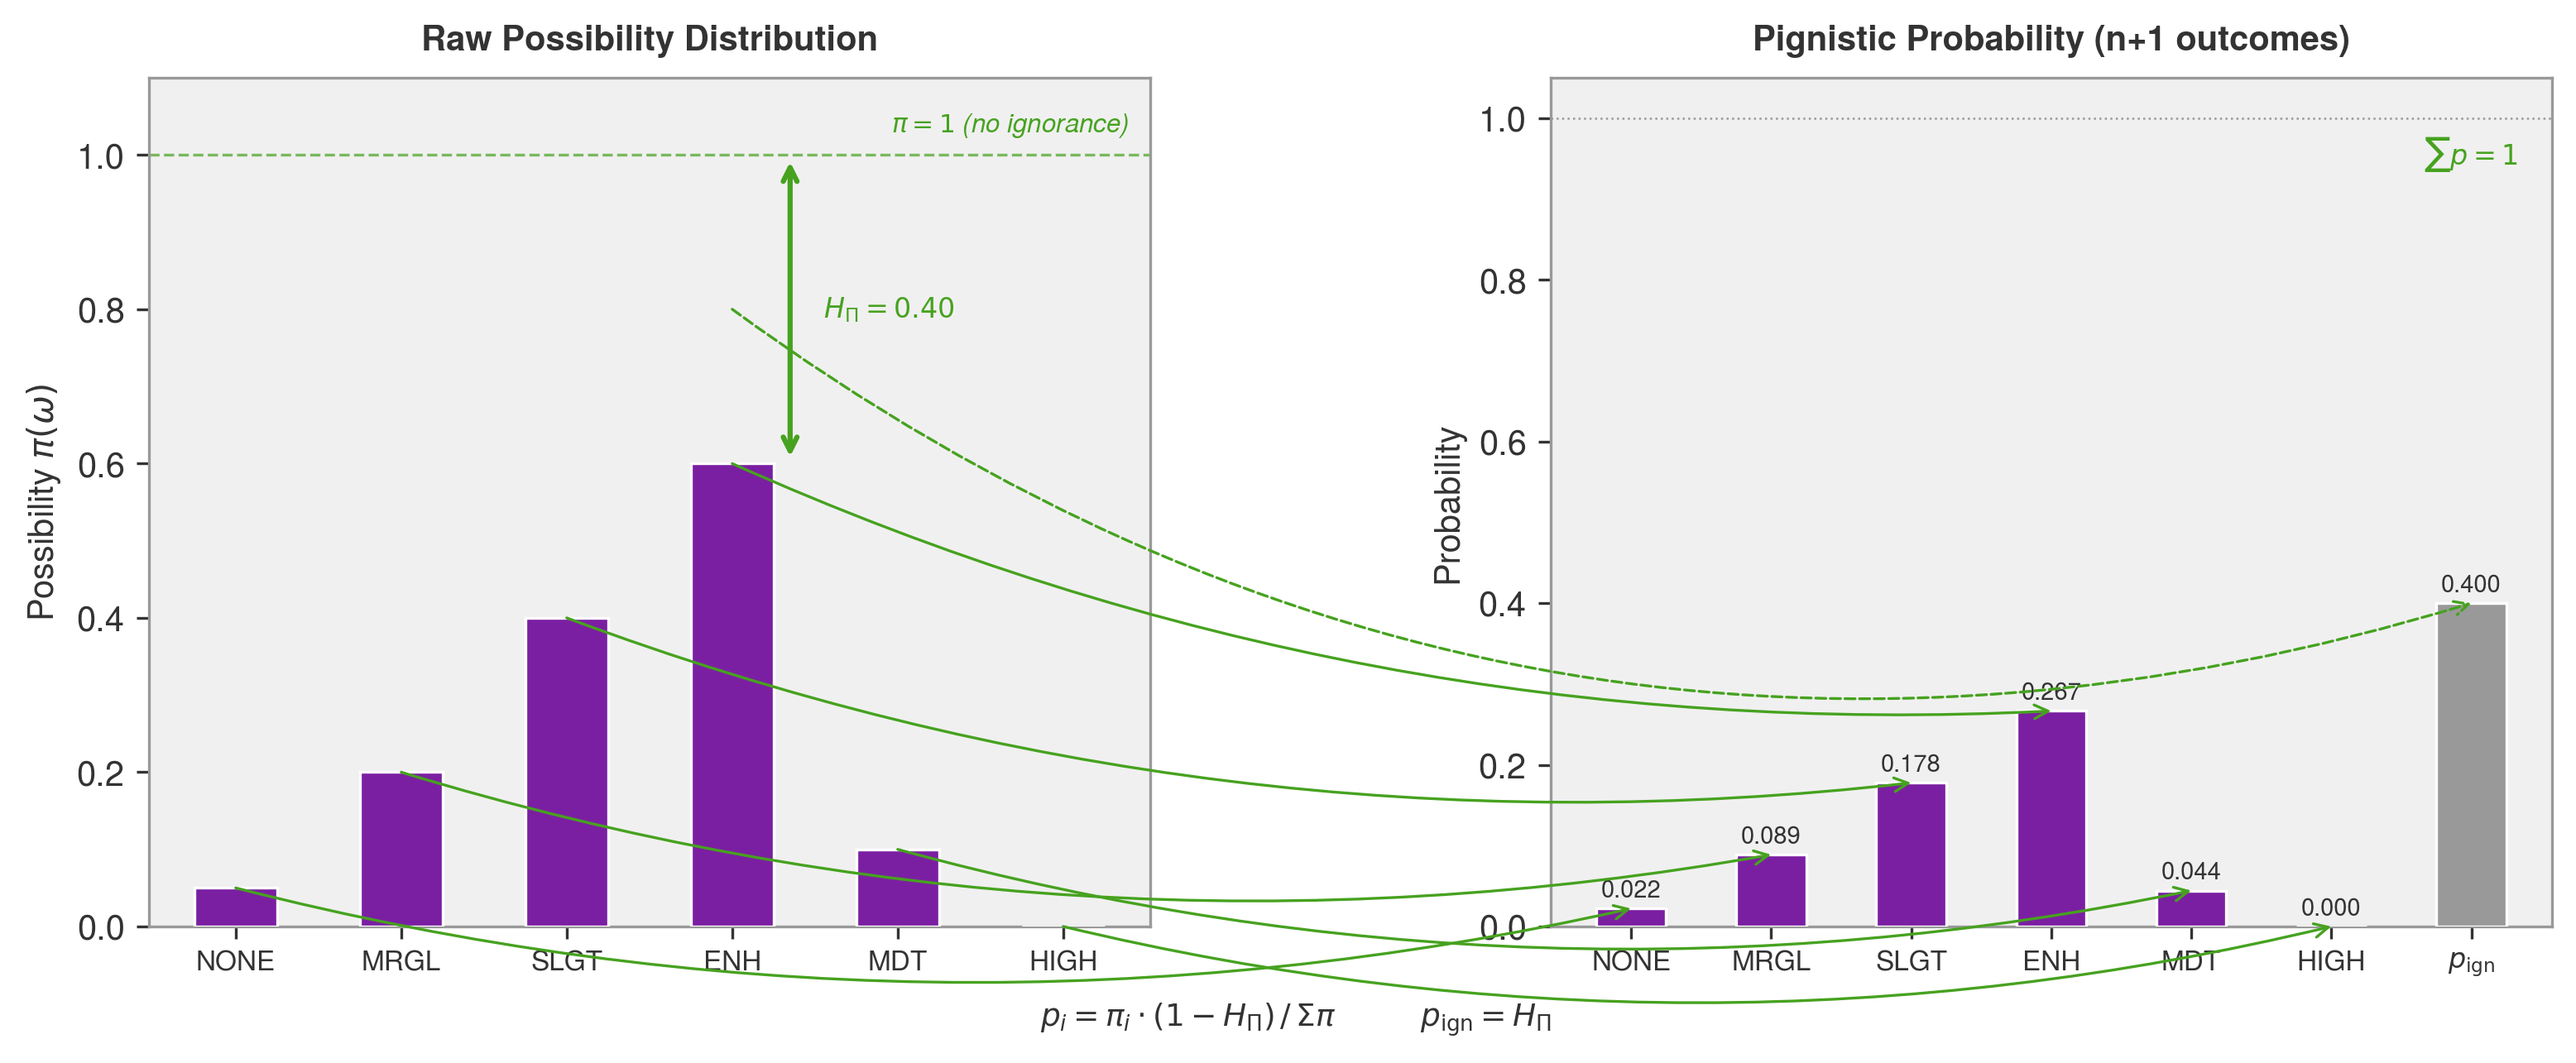
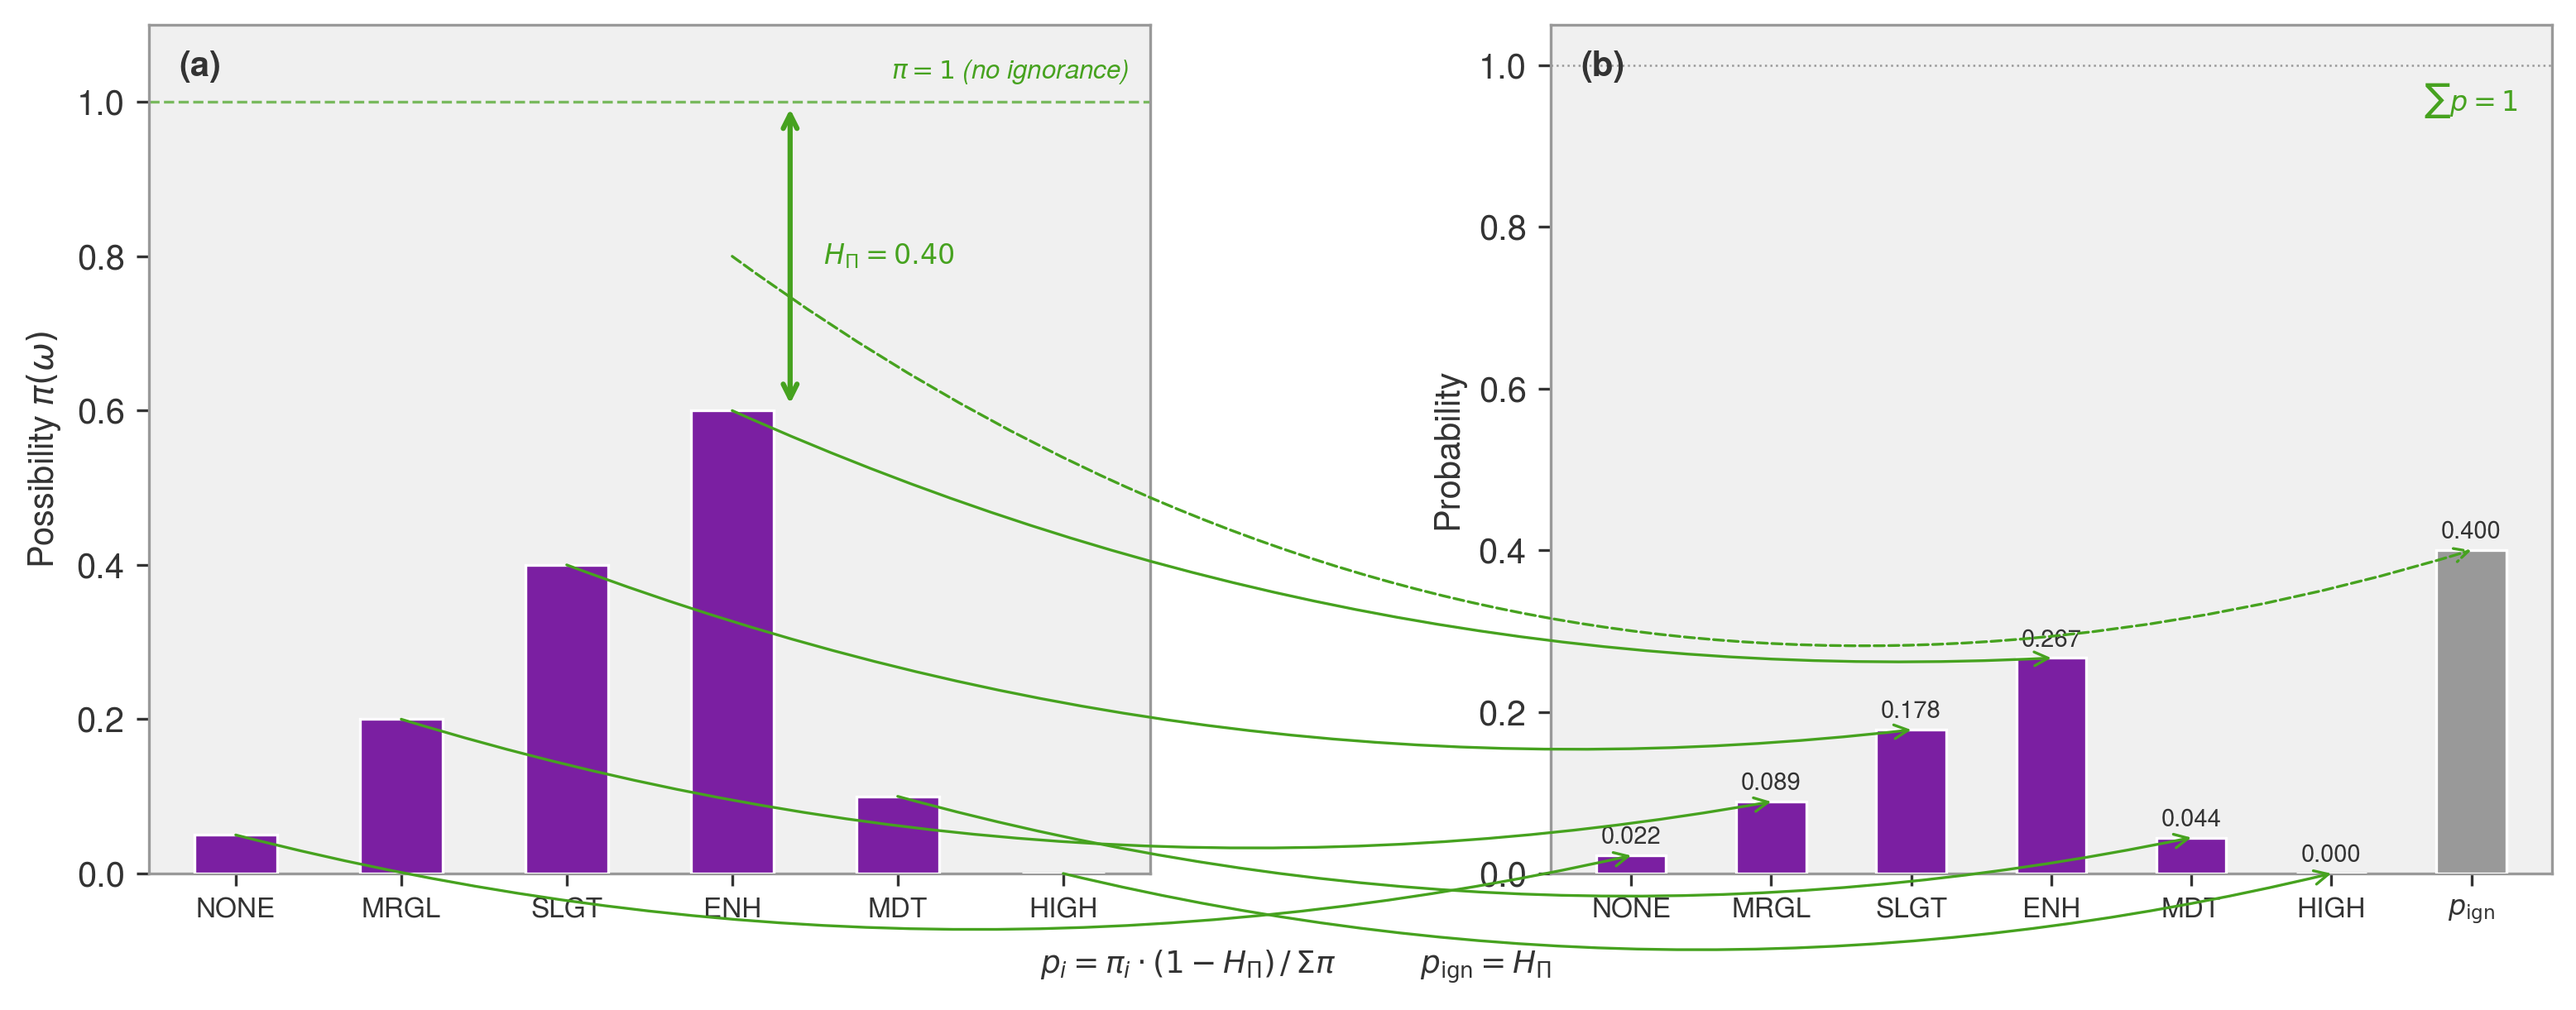
Fig 2 (a)/(b) labels, Fig 7 legend lowered, Fig 8 colorbar added
Fig 2: Remove panel titles, add (a)/(b) corner labels.
Fig 7: bbox_to_anchor −0.04 → −0.10 so legend clears HSS row.
Fig 8: Add colorbar to confusion matrix panel (log-scale counts).

diff --git a/scripts/fig_pignistic_bridge.py b/scripts/fig_pignistic_bridge.py
@@ -64,8 +64,8 @@ def main():
     ax_l.set_xticks(x_left)
     ax_l.set_xticklabels(SPC_CATEGORIES, fontsize=8)
     ax_l.set_ylabel(r"Possibility $\pi(\omega)$")
-    ax_l.set_title("Raw Possibility Distribution", fontsize=10,
-                    fontweight="bold", pad=8)
+    ax_l.text(0.03, 0.97, "(a)", transform=ax_l.transAxes,
+              fontsize=10, fontweight="bold", va="top")
     ax_l.set_ylim(0, 1.10)
     ax_l.axhline(1.0, linestyle="--", linewidth=0.8, color=GREEN, zorder=1,
                  alpha=0.7)
@@ -99,8 +99,8 @@ def main():
     ax_r.set_xticks(x_right)
     ax_r.set_xticklabels(right_labels, fontsize=8)
     ax_r.set_ylabel("Probability")
-    ax_r.set_title("Pignistic Probability (n+1 outcomes)", fontsize=10,
-                    fontweight="bold", pad=8)
+    ax_r.text(0.03, 0.97, "(b)", transform=ax_r.transAxes,
+              fontsize=10, fontweight="bold", va="top")
     ax_r.set_ylim(0, 1.05)
     ax_r.axhline(1.0, linestyle=":", linewidth=0.6, color=MID_GREY, zorder=1)
 

diff --git a/scripts/fig_categorical_scores.py b/scripts/fig_categorical_scores.py
@@ -219,6 +219,11 @@ def main():
                  fontsize=11, fontweight="bold", va="top", ha="left",
                  color="white")
 
+    # Colorbar for confusion matrix (log-scale counts)
+    cb = fig.colorbar(im, ax=ax_conf, shrink=0.75, pad=0.03)
+    cb.set_label("Count (log scale)", fontsize=8)
+    cb.ax.tick_params(labelsize=7)
+
     fig.tight_layout(w_pad=3.0)
     save_fig(fig, "categorical_scores")
 

diff --git a/scripts/fig_scorecard_table.py b/scripts/fig_scorecard_table.py
@@ -175,7 +175,7 @@ def main():
                        markersize=6, label="Ignorance* (context-dep.)"),
     ]
     ax.legend(handles=leg_handles, loc="lower center",
-              bbox_to_anchor=(0.5, -0.04), ncol=2, fontsize=6.5,
+              bbox_to_anchor=(0.5, -0.10), ncol=2, fontsize=6.5,
               frameon=True, fancybox=False, edgecolor=MID_GREY,
               handletextpad=0.3, columnspacing=0.8)
 
